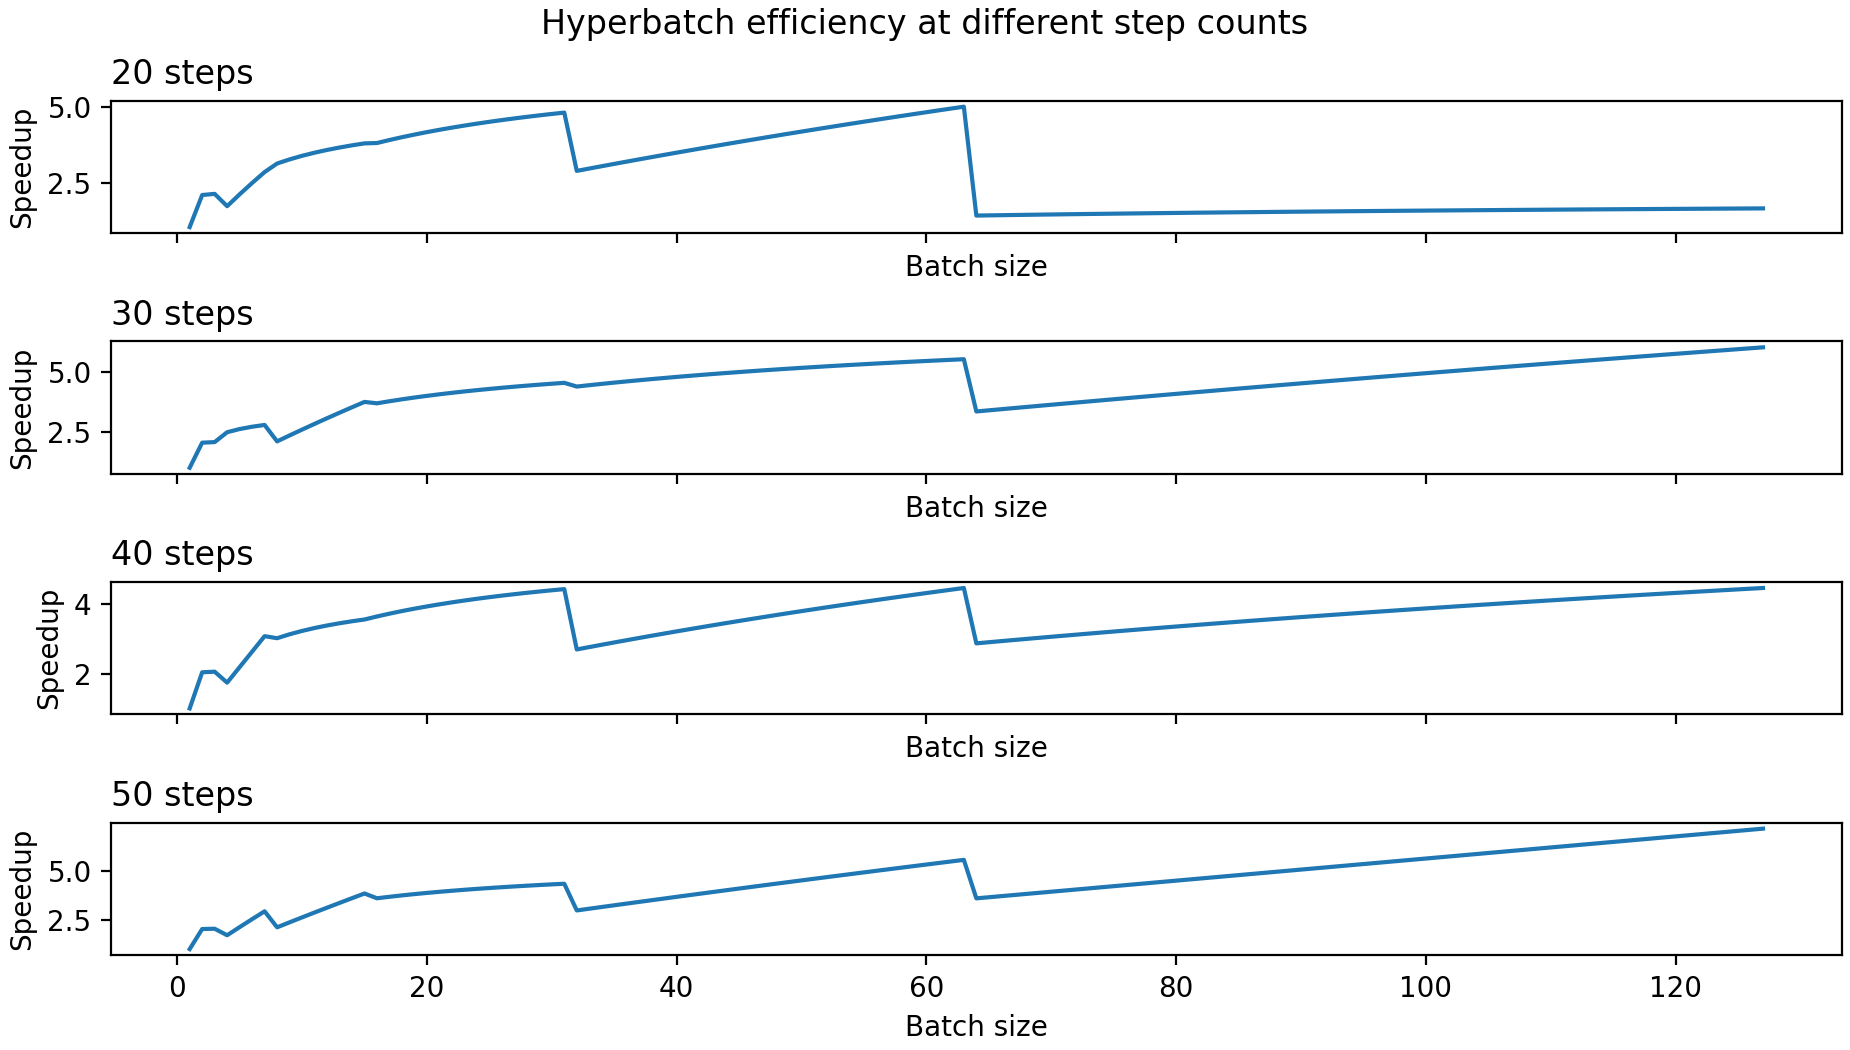
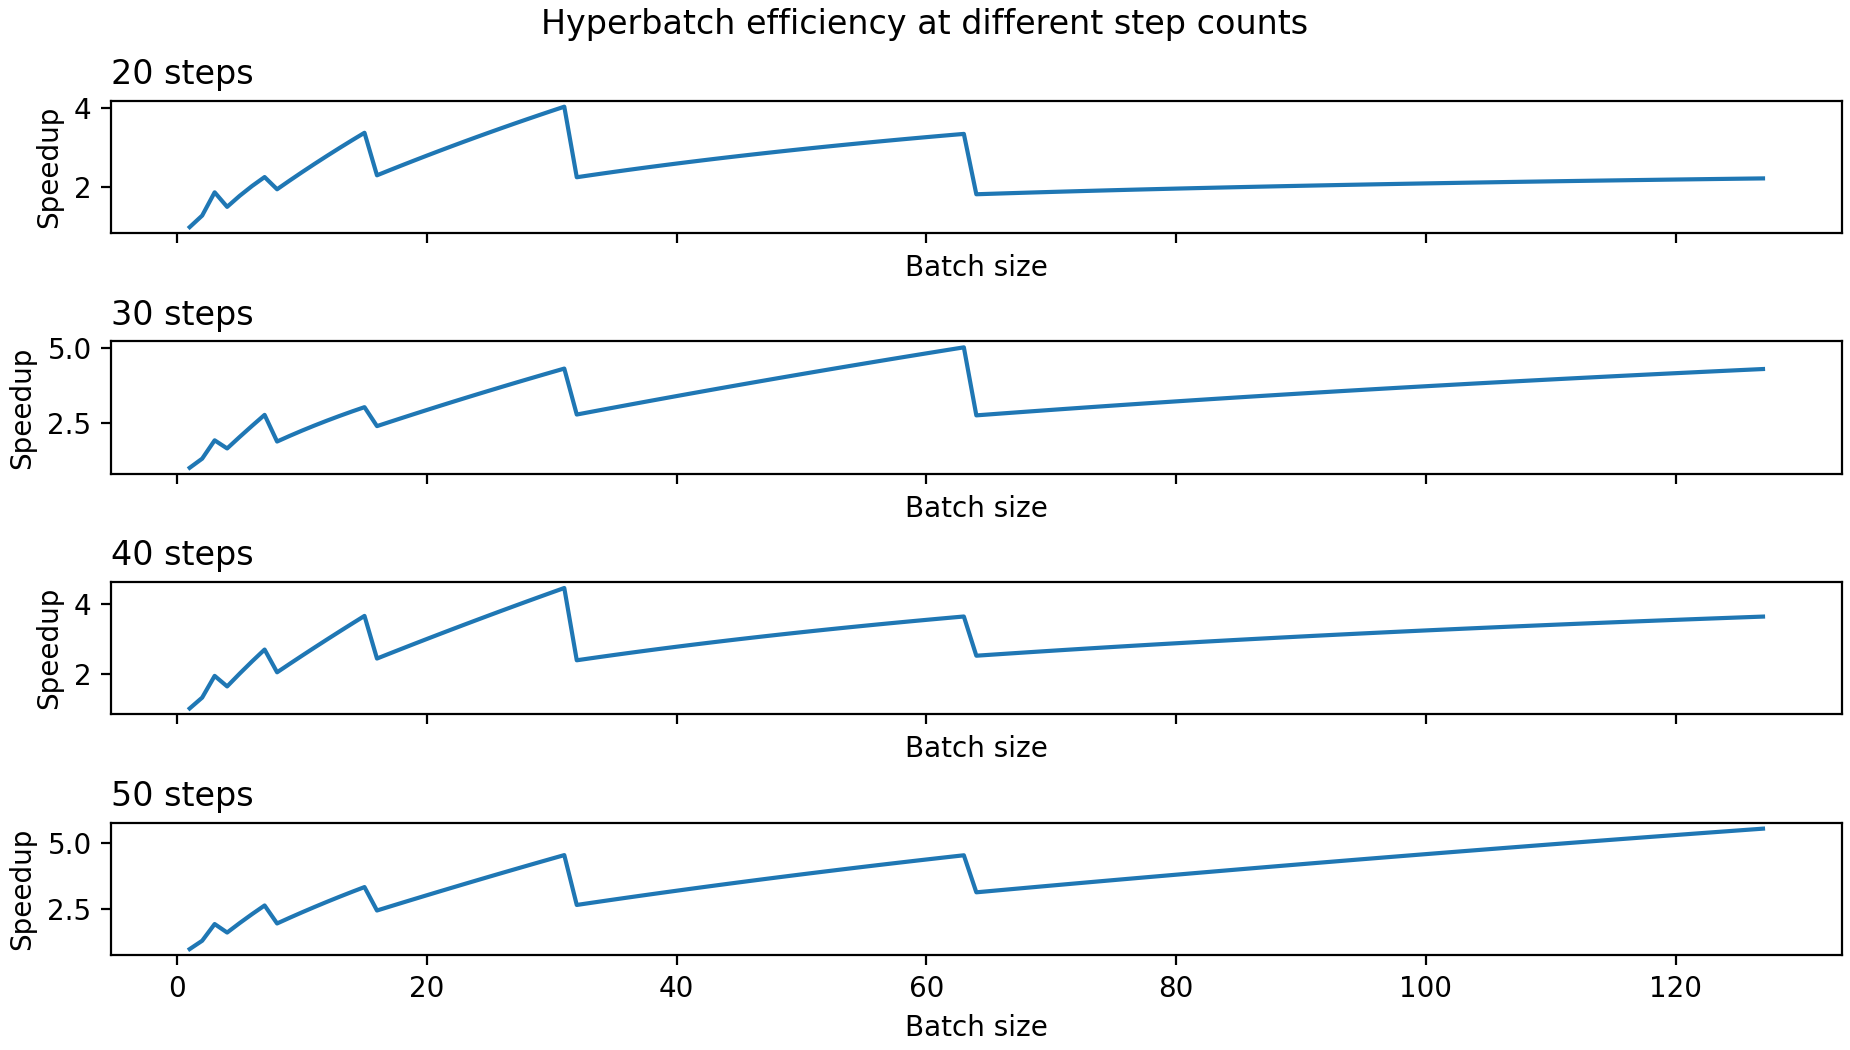
update hyperbatch traces with new scheduling function

diff --git a/scripts/sd_prompt_pinning.py b/scripts/sd_prompt_pinning.py
@@ -112,6 +112,73 @@ sys.path.remove(flip_pytorch_path)
 # BEGIN Hyperbatch
 ############################################################################################################
 
+def batch_doubling_schedule_validate_and_final_size(schedule):
+    current_index = 0
+    current_size = 1
+    for expected_current_size, appended_size, i in schedule:
+        assert current_index == i, f"current_index has unexpected value: {current_index} != {i}"
+        current_index += 1
+        if appended_size is None:
+            current_size *= 2
+        else:
+            current_size += appended_size
+        assert expected_current_size == current_size, f"expected_current_size != current_size: {expected_current_size} != {current_size}"
+
+    return current_size
+
+# The doubling pattern has shape:
+#
+# d steps, 2x, d steps, 2x, .., 2x, d steps, leftover/2x, d steps
+#
+# K 2x’s/leftovers
+# K*d + d = (K+1)*d = steps
+# steps/(K + 1) = d
+# zs = [0] * d
+#
+# If leftovers
+#   (zs + [None]) * (K-1) + zs + leftovers + zs
+# Else
+#   (zs + [None]) * K + zs
+#
+# Note: this function asserts that the schedule:
+# - is an Iterator[tuple[current_size, appended_size | None, int]]
+# - list(map(lambda x: x[-1], schedule)) == list(range(num_steps))
+# - map(lambda x: x[1], output) == range(num_steps)
+# - the batch_size's increase as expected
+def batch_doubling_schedule(batch_size, num_steps, disable_tqdm=True):
+    batch_size_log2 = batch_size.bit_length()
+    batch_size_leftover = None
+    if 2 ** batch_size_log2 != batch_size:
+        batch_size_log2 -= 1
+        batch_size_leftover = batch_size - 2 ** batch_size_log2
+
+    if num_steps <= batch_size_log2:
+        print(f"The number of steps must be greater than log2(batch_size) to use a Hyperbatch scheduler: disabling Hyperbatch functionality.")
+        schedule = list(map(lambda i: (batch_size, 0, i), range(num_steps)))
+        assert len(schedule) == num_steps, f"len(schedule) != num_steps: {len(schedule)} != {num_steps}: {batch_size_log2} {schedule}"
+        return schedule
+
+    substep_length = num_steps // (batch_size_log2 + 1)
+    substeps = [0] * (substep_length - 1)
+    schedule = (substeps + [None]) * batch_size_log2 + substeps + [batch_size_leftover]
+    schedule += [0] * (num_steps - len(schedule))
+    current_batch_size = 1
+    def add_current_batch_size(i_appended_size):
+        nonlocal current_batch_size
+        i, appended_size = i_appended_size
+        if appended_size is None:
+            current_batch_size *= 2
+        else:
+            current_batch_size += appended_size
+        return (current_batch_size, appended_size, i)
+
+    schedule = list(tqdm.contrib.tmap(add_current_batch_size, enumerate(schedule), disable=disable_tqdm))
+    final_size = batch_doubling_schedule_validate_and_final_size(schedule)
+    assert batch_size == final_size, f"batch_size not equal to current_size: {batch_size} != {final_size} \n {schedule}"
+    assert len(schedule) == num_steps, f"len(schedule) != num_steps: {len(schedule)} != {num_steps}: {schedule}"
+    return schedule
+
+
 # Get the traces of which images were copied from which, for "hyperbatches."
 # 
 # A "Hyperbatch" sampler starts with one image/seed and doubles (up to batch size)
@@ -120,7 +187,7 @@ sys.path.remove(flip_pytorch_path)
 # For example, given `batch_size=7` and `num_steps=20`:
 #
 # ```
-# print(get_hyberbatch_traces(7, 20))
+# print(get_hyperbatch_traces(7, 20))
 # [[0, 0, 0, 0], [1, 1, 1, 0], [2, 2, 0, 0], [3, 3, 1, 0], [4, 0, 0, 0], [5, 1, 1, 0], [6, 2, 0, 0]]
 # 
 # [0, 0, 0, 0]
@@ -137,37 +204,11 @@ sys.path.remove(flip_pytorch_path)
 #  |  1st image, batch size 2^2
 #  1st image, batch size 2^3
 # ```
-def get_hyberbatch_traces(batch_size: int, num_steps: int):
+def get_hyperbatch_traces(batch_size: int, num_steps: int):
     trace_list = [[0]]
-    current_batch_size = 1
-    current_batch_size_log2 = 0
-    batch_size_log2 = batch_size.bit_length()
-    batch_size_leftover = 0
-    if 2 ** batch_size_log2 != batch_size:
-        batch_size_log2 -= 1
-        batch_size_leftover = batch_size - 2 ** batch_size_log2
 
-    # number of steps between doubling
-    num_sub_steps = batch_size_log2 + 1
-    sub_step_size = num_steps // num_sub_steps
-    if num_steps % num_sub_steps:
-        sub_step_final = sub_step_size * num_sub_steps
-    else:
-        sub_step_final = sub_step_size * batch_size_log2
-
-    for i in range(num_steps - 1):
-        if i != 0 and i % sub_step_size == 0:
-            if i == sub_step_final:
-                appended_size = batch_size_leftover
-            else:
-                appended_size = None
-
-            current_batch_size_log2 += 1
-            trace_list = list(map(lambda i_trace: [i_trace[0]] + i_trace[1], enumerate(trace_list + trace_list[0:appended_size])))
-            if appended_size is None:
-                current_batch_size = 2 * current_batch_size
-            else:
-                current_batch_size = current_batch_size + appended_size
+    for current_batch_size, appended_size, i in batch_doubling_schedule(batch_size, num_steps - 1, disable_tqdm=disable):
+        trace_list = list(map(lambda i_trace: [i_trace[0]] + i_trace[1], enumerate(trace_list + trace_list[0:appended_size])))
 
     assert len(trace_list) == batch_size
     return trace_list
@@ -189,7 +230,7 @@ def apply_hyperbatch_weights(
         trace_list_y, y = traced_y
         return (trace_list_x, trace_list_y, original_pair_metric((x, y)))
 
-    trace_list = get_hyberbatch_traces(batch_size, num_steps)
+    trace_list = get_hyperbatch_traces(batch_size, num_steps)
     traced_values = list(zip(trace_list, values))
     traced_values_len = len(traced_values)
     expected_total = (traced_values_len * (traced_values_len - 1)) / 2
